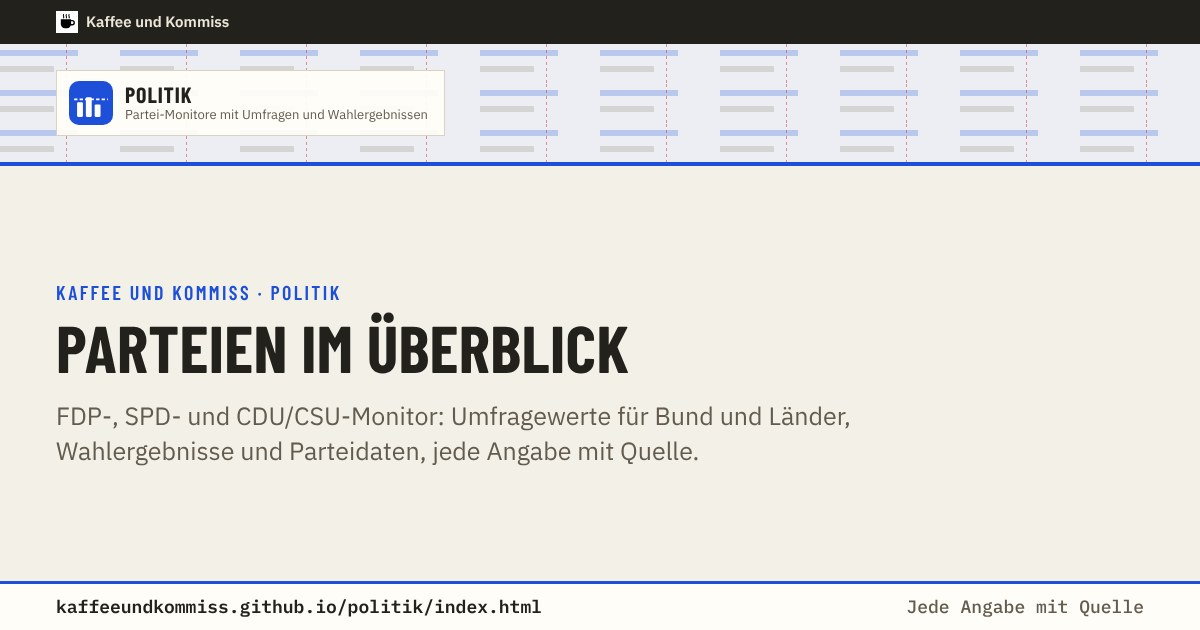
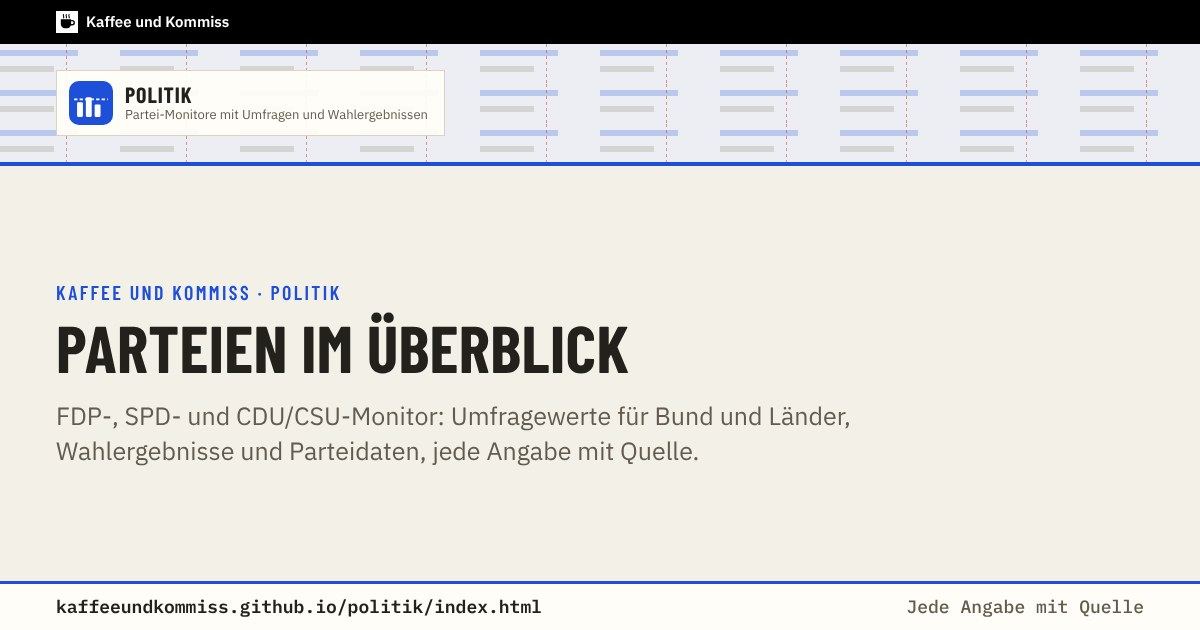
Geschichte: Stacheldraht und Explosionen statt Kartenraster
Kachel auf der Startseite und Geschichte-Übersicht nutzen stacheldraht.svg
wie die Weltkriegsseiten. Vorschaubilder neu erzeugt.

Claude-Session: https://claude.ai/code/session_01AuP7hGC8XtmKoUeALEXCne

Changed region(s): [[0.0, 0.0, 1.0, 0.0905]]

diff --git a/geschichte/index.html b/geschichte/index.html
@@ -13,12 +13,12 @@
 <meta property="og:description" content="Geschichte des Ersten Weltkriegs an der Westfront: das Jagdgeschwader Richthofen und Ernst Jüngers Weg 1914–1918, jede Angabe mit Quelle.">
 <meta property="og:url" content="https://kaffeeundkommiss.github.io/geschichte/">
 <!-- Vorschau für Linkvorschauen, erzeugt mit werkzeuge/vorschau.js -->
-<meta property="og:image" content="https://kaffeeundkommiss.github.io/vorschau/geschichte.jpg?v=b5cceb65">
+<meta property="og:image" content="https://kaffeeundkommiss.github.io/vorschau/geschichte.jpg?v=a04b740c">
 <meta property="og:image:width" content="1200">
 <meta property="og:image:height" content="630">
 <meta property="og:image:alt" content="Erster Weltkrieg an der Westfront: Kaffee und Kommiss">
 <meta name="twitter:card" content="summary_large_image">
-<meta name="twitter:image" content="https://kaffeeundkommiss.github.io/vorschau/geschichte.jpg?v=b5cceb65">
+<meta name="twitter:image" content="https://kaffeeundkommiss.github.io/vorschau/geschichte.jpg?v=a04b740c">
 <link rel="icon" href="../icons/geschichte.svg" type="image/svg+xml">
 <link rel="icon" href="../favicon-32.png" type="image/png" sizes="32x32">
 <link rel="apple-touch-icon" sizes="180x180" href="../apple-touch-icon.png?v=2">

diff --git a/politik/index.html b/politik/index.html
@@ -13,12 +13,12 @@
 <meta property="og:description" content="Partei-Monitore für FDP, SPD und CDU/CSU: Umfragewerte für Bund und Länder, Wahlergebnisse und Parteidaten, jede Angabe mit Quelle.">
 <meta property="og:url" content="https://kaffeeundkommiss.github.io/politik/">
 <!-- Vorschau für Linkvorschauen, erzeugt mit werkzeuge/vorschau.js -->
-<meta property="og:image" content="https://kaffeeundkommiss.github.io/vorschau/politik.jpg?v=46c2f249">
+<meta property="og:image" content="https://kaffeeundkommiss.github.io/vorschau/politik.jpg?v=a8eecc37">
 <meta property="og:image:width" content="1200">
 <meta property="og:image:height" content="630">
 <meta property="og:image:alt" content="Parteien im Überblick: Kaffee und Kommiss">
 <meta name="twitter:card" content="summary_large_image">
-<meta name="twitter:image" content="https://kaffeeundkommiss.github.io/vorschau/politik.jpg?v=46c2f249">
+<meta name="twitter:image" content="https://kaffeeundkommiss.github.io/vorschau/politik.jpg?v=a8eecc37">
 <link rel="icon" href="../icons/politik.svg" type="image/svg+xml">
 <link rel="icon" href="../favicon-32.png" type="image/png" sizes="32x32">
 <link rel="apple-touch-icon" sizes="180x180" href="../apple-touch-icon.png?v=2">

diff --git a/style.css b/style.css
@@ -43,3 +43,6 @@ h1{margin:6px 0 0;font:700 clamp(30px,5vw,42px)/1.02 var(--kk-titel);text-transf
   --kk-schild:rgba(17,17,17,.96); --kk-dimm:rgba(0,0,0,.45); --kk-leiste:#000000;
   --kk-akzent:#FFFFFF; --kk-akzent-hell:#222222; --kk-kopf:#1A1A1A;
 }
+
+/* Bereich Geschichte: Stacheldraht und Explosionen statt Kartenraster, wie auf den Weltkriegsseiten (stacheldraht.svg aus erster-Weltkrieg). */
+.kk-b-gesch{--kk-muster:url("stacheldraht.svg")}
